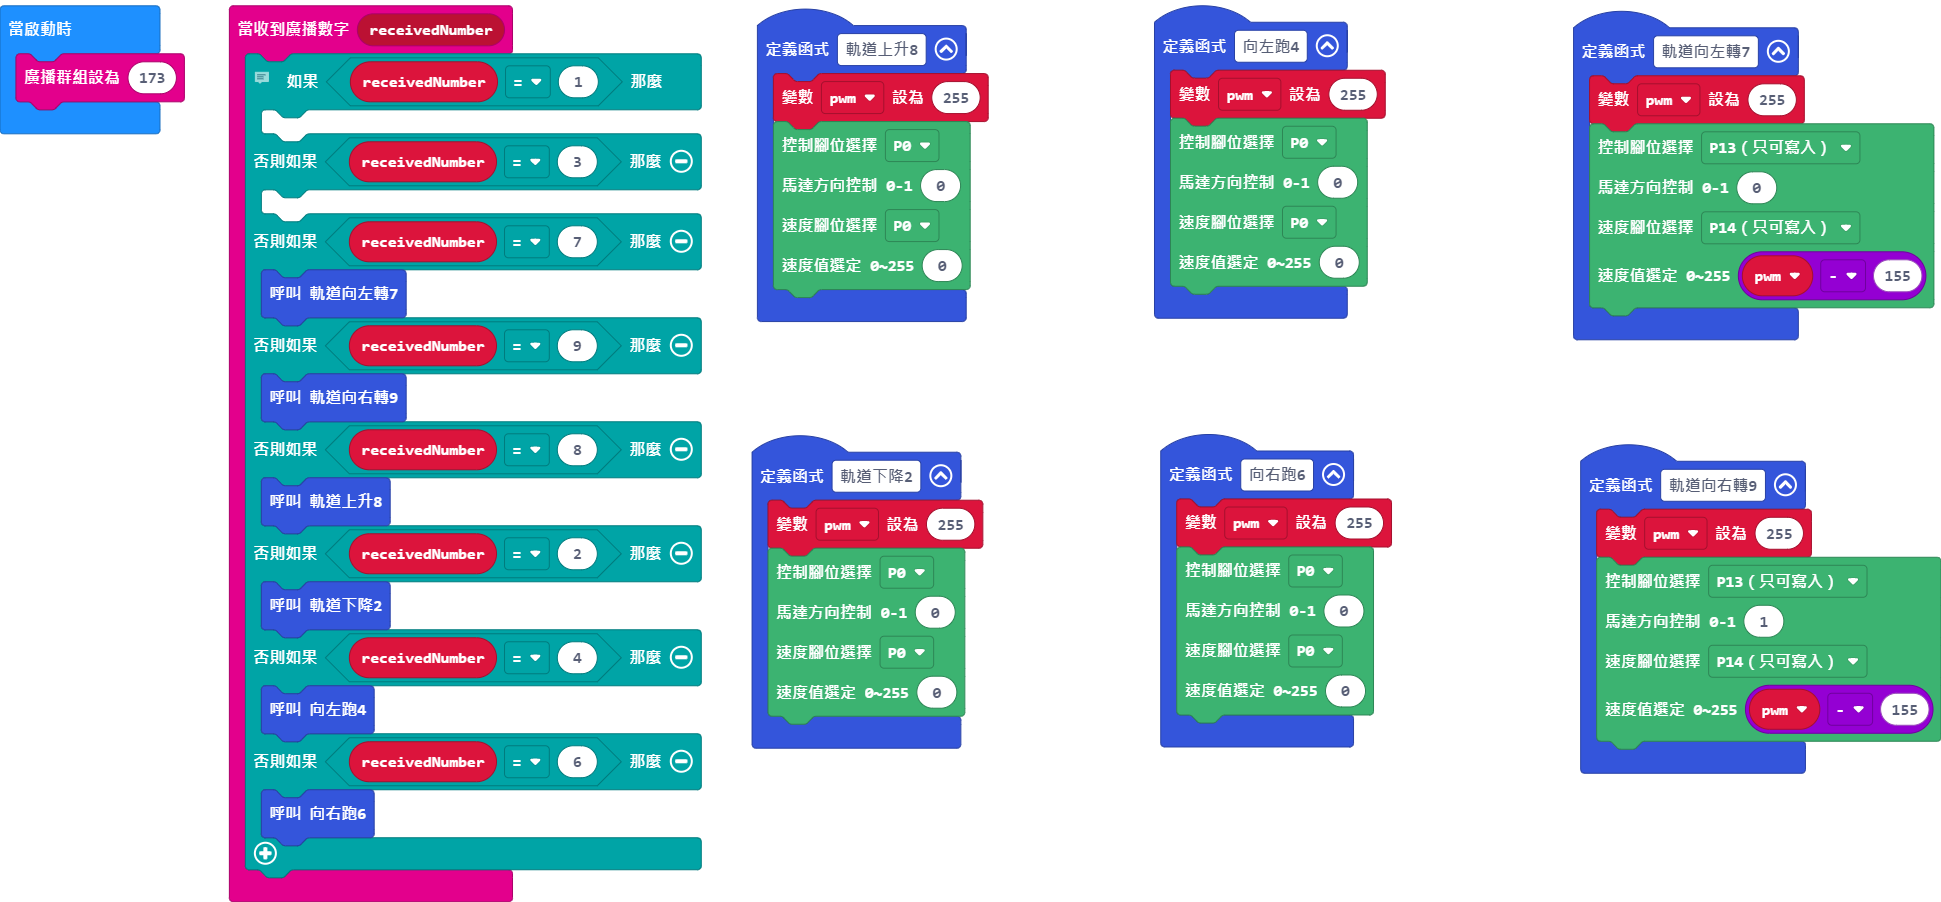
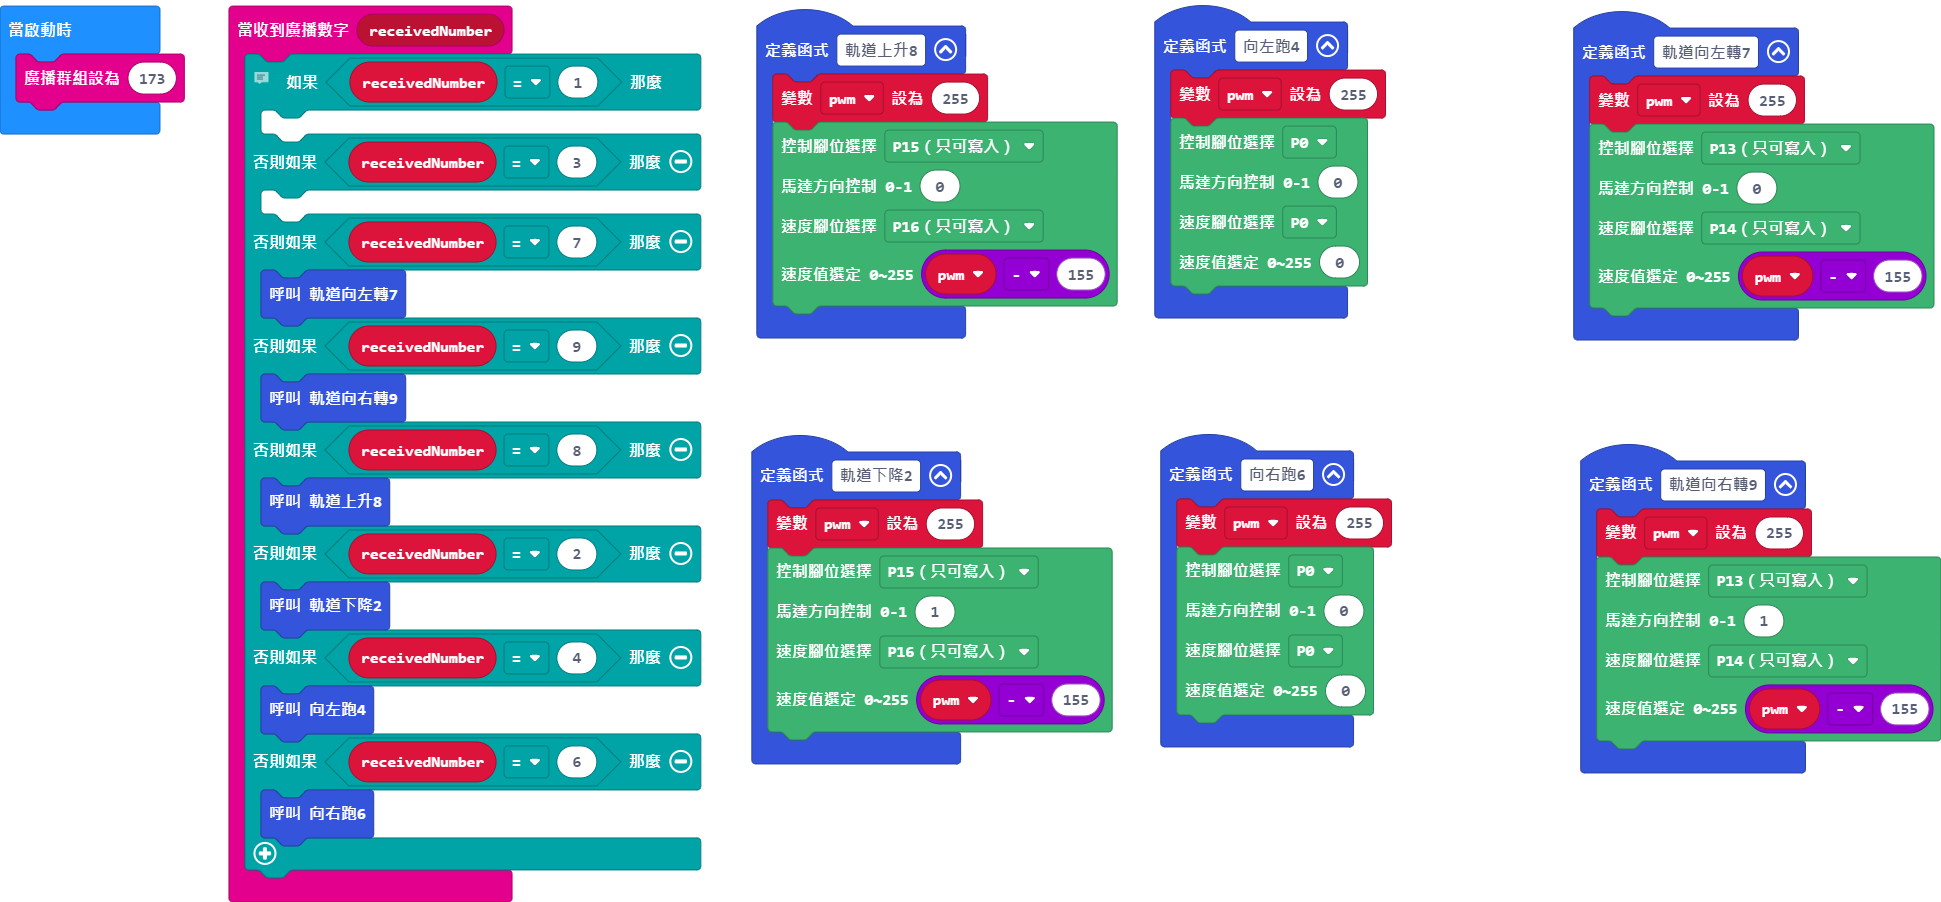
更新 main.blocks, main.ts

diff --git a/main.ts b/main.ts
@@ -37,10 +37,10 @@ function 軌道向右轉9 () {
 function 軌道下降2 () {
     pwm = 255
     sensors.DDMmotor(
-    AnalogPin.P0,
-    0,
-    AnalogPin.P0,
-    0
+    AnalogPin.P15,
+    1,
+    AnalogPin.P16,
+    pwm - 155
     )
 }
 function 向左跑4 () {
@@ -64,10 +64,10 @@ function 向右跑6 () {
 function 軌道上升8 () {
     pwm = 255
     sensors.DDMmotor(
-    AnalogPin.P0,
+    AnalogPin.P15,
     0,
-    AnalogPin.P0,
-    0
+    AnalogPin.P16,
+    pwm - 155
     )
 }
 function 軌道向左轉7 () {
